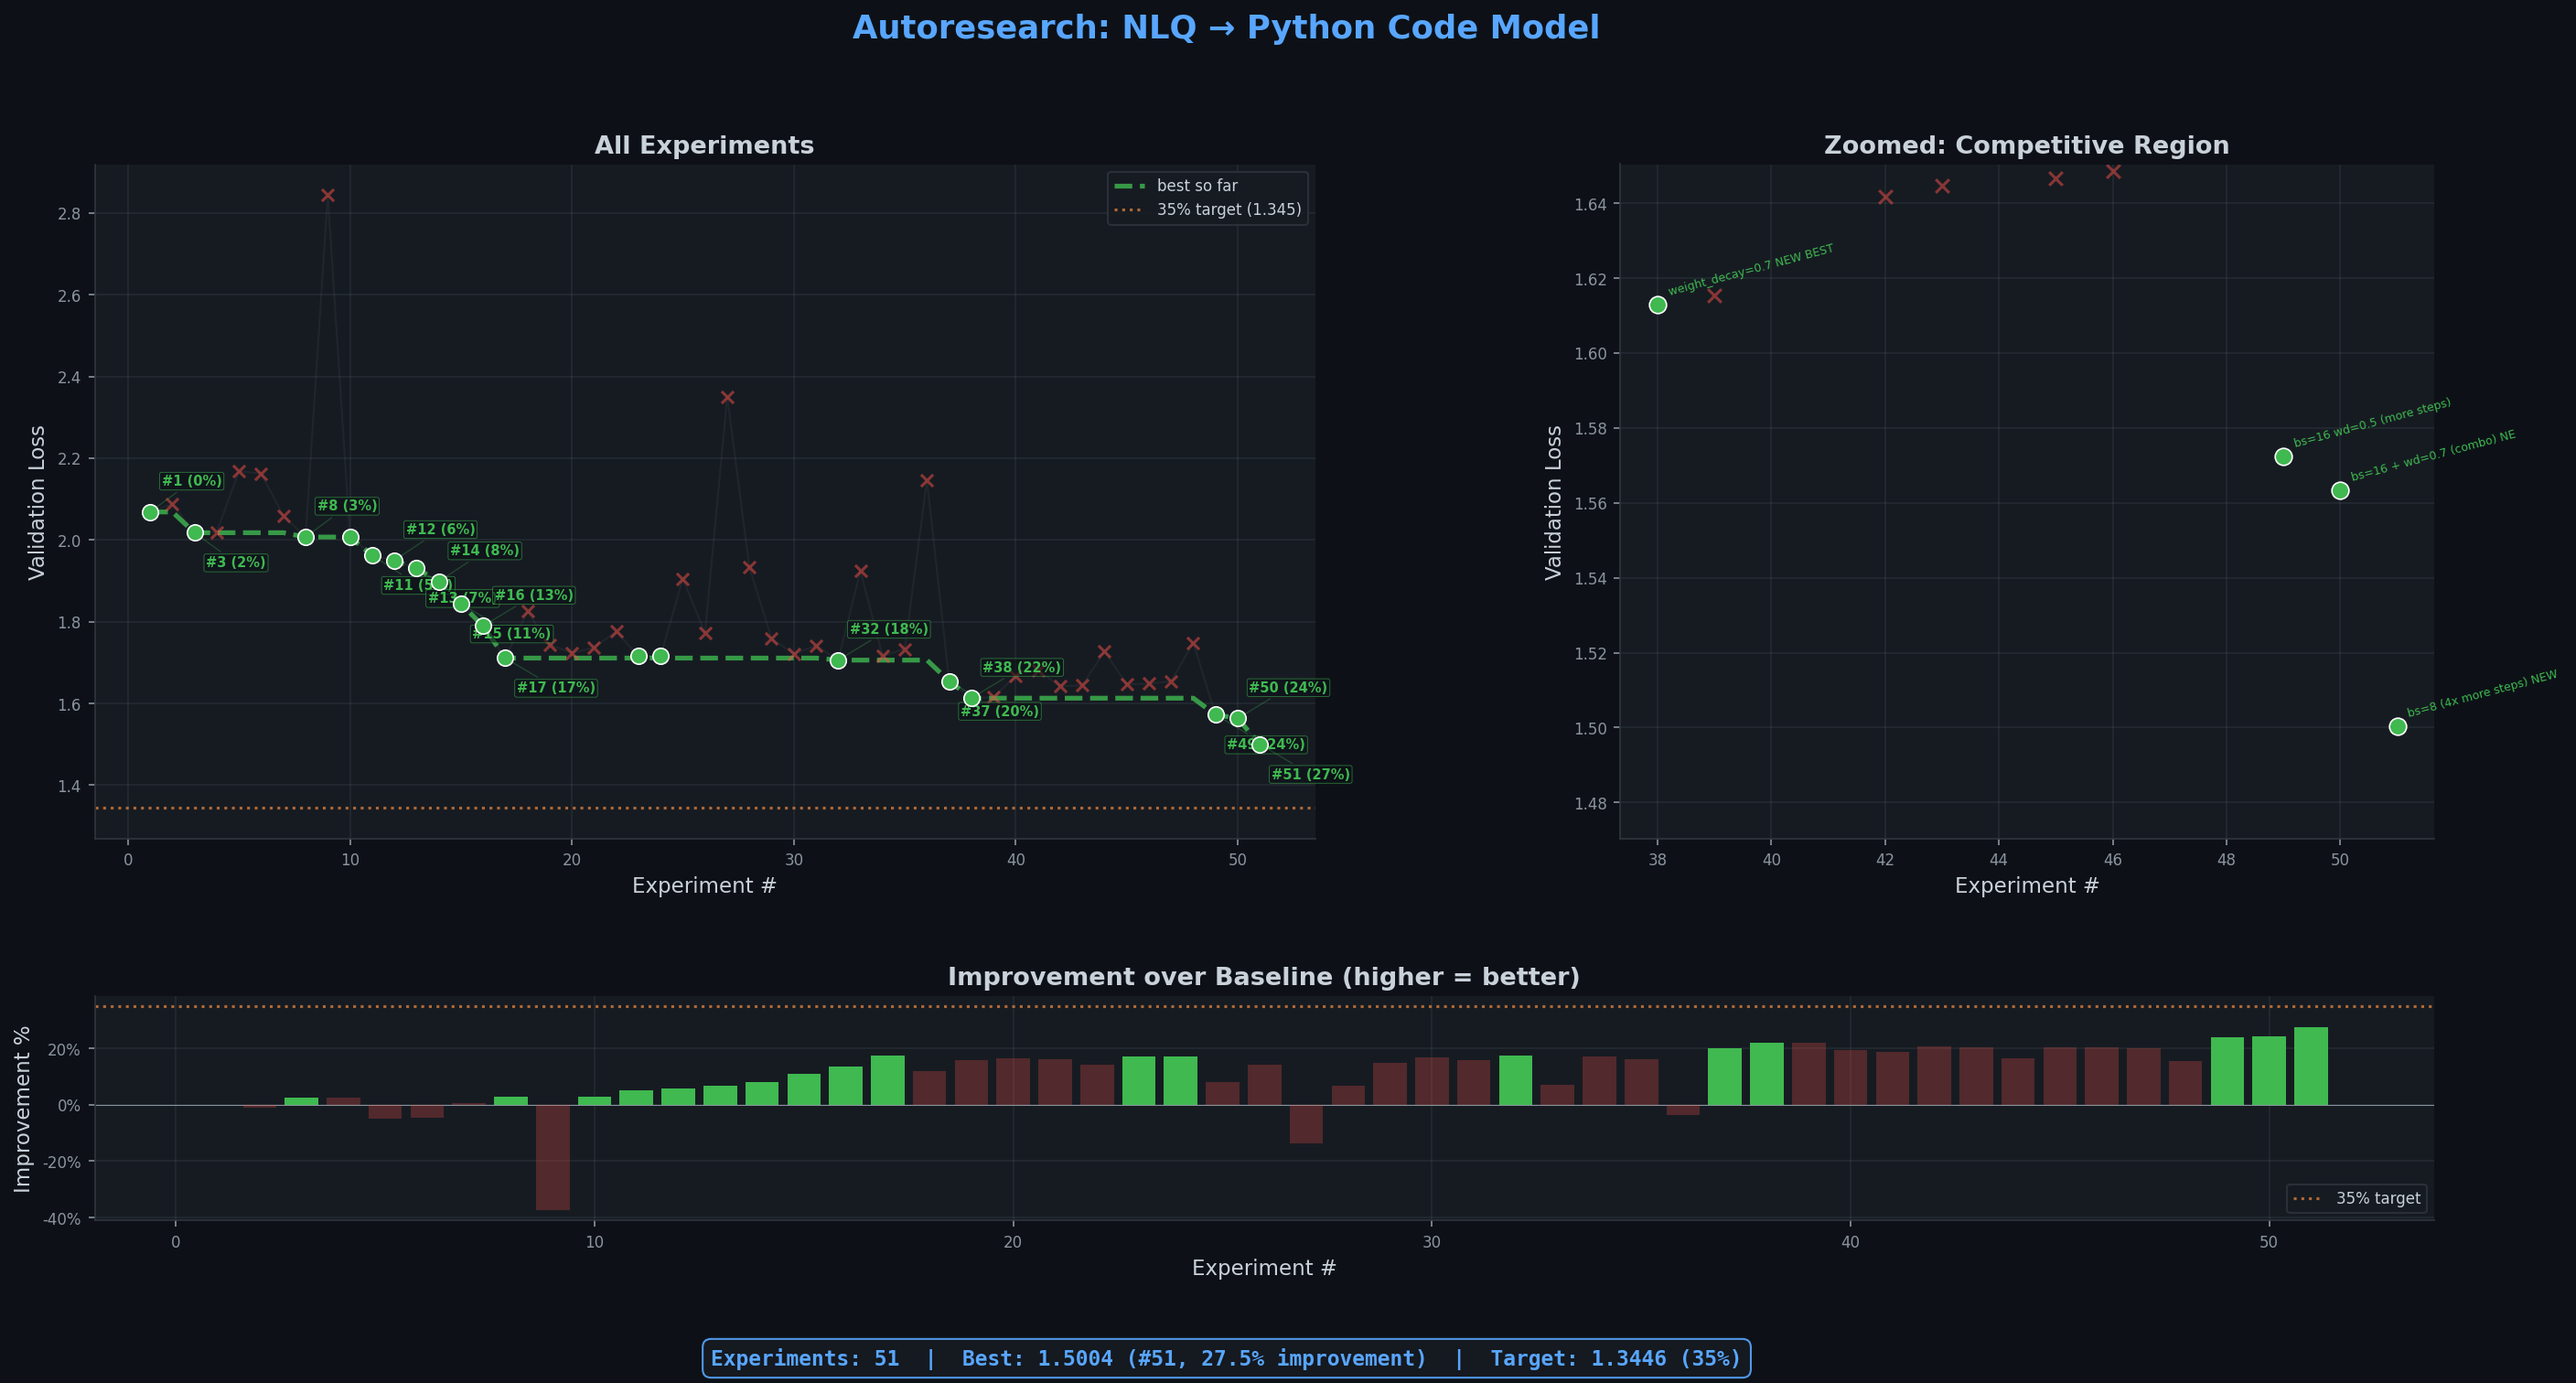
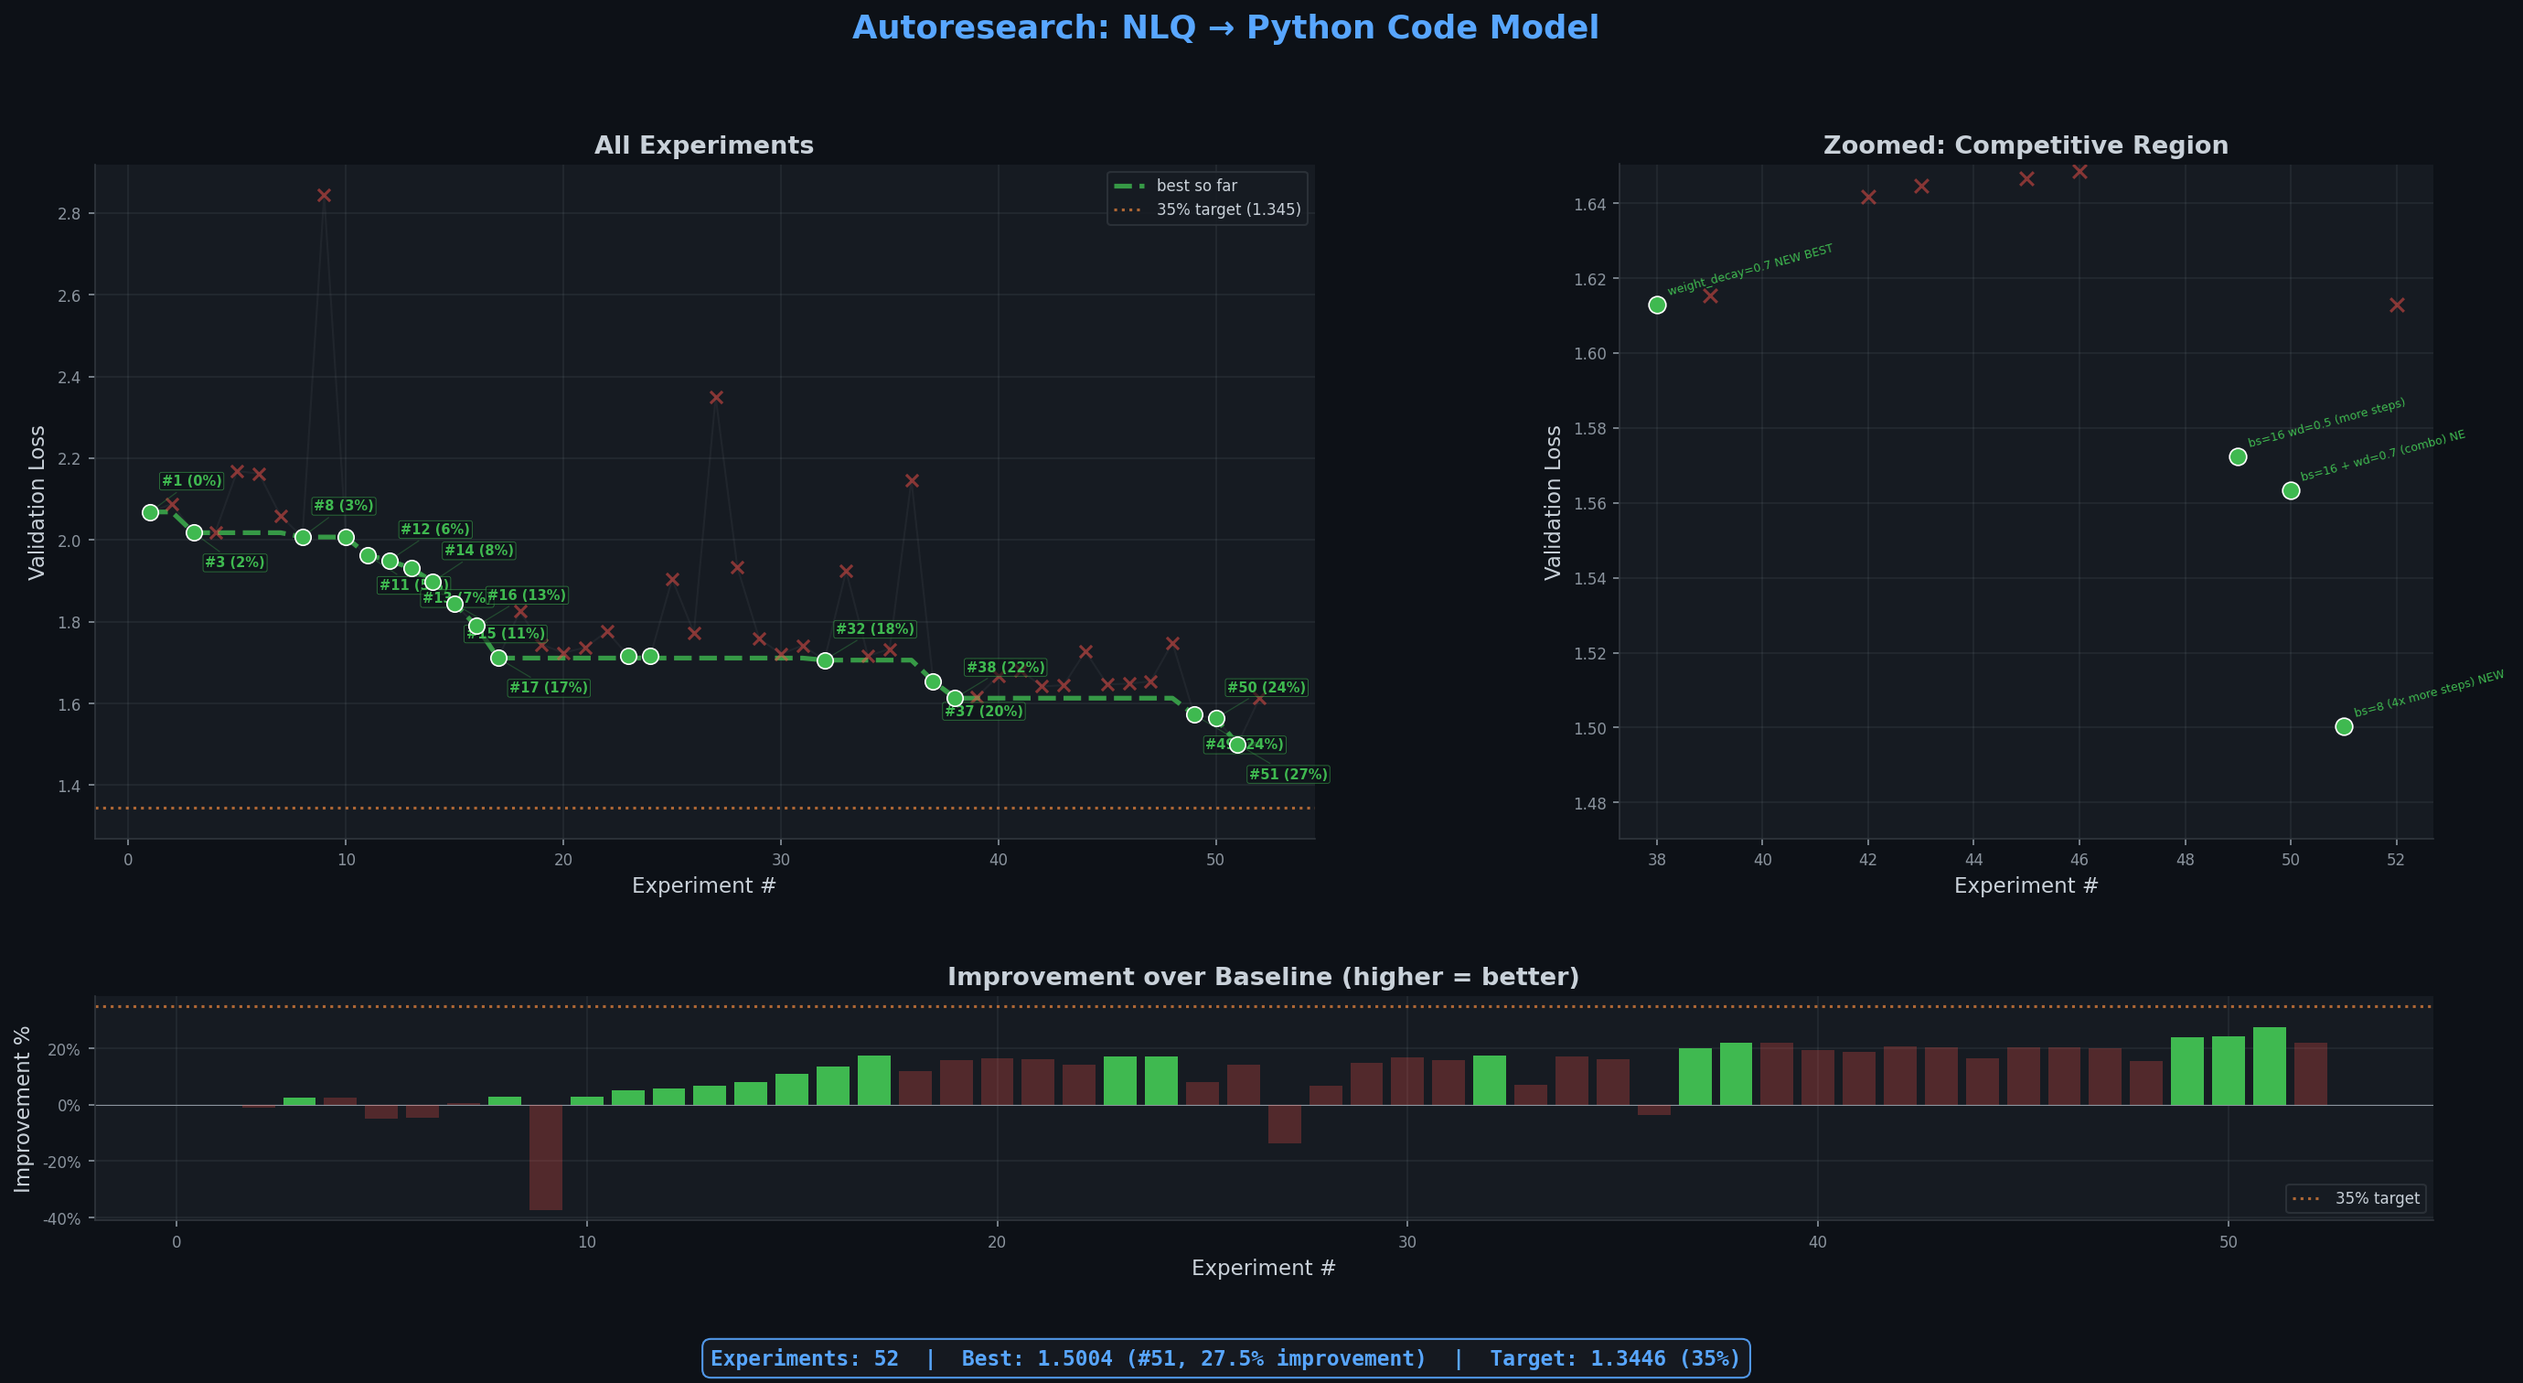
exp 052: bs=16 lr=4e-3 (val=1.6129, 22.0%)

diff --git a/train_mlx.py b/train_mlx.py
@@ -46,7 +46,7 @@ USE_SWIGLU = False
 DROPOUT = 0.1
 
 # Training
-BATCH_SIZE = 8
+BATCH_SIZE = 16
 LEARNING_RATE = 3e-3
 WEIGHT_DECAY = 0.5
 WARMUP_STEPS = 150
